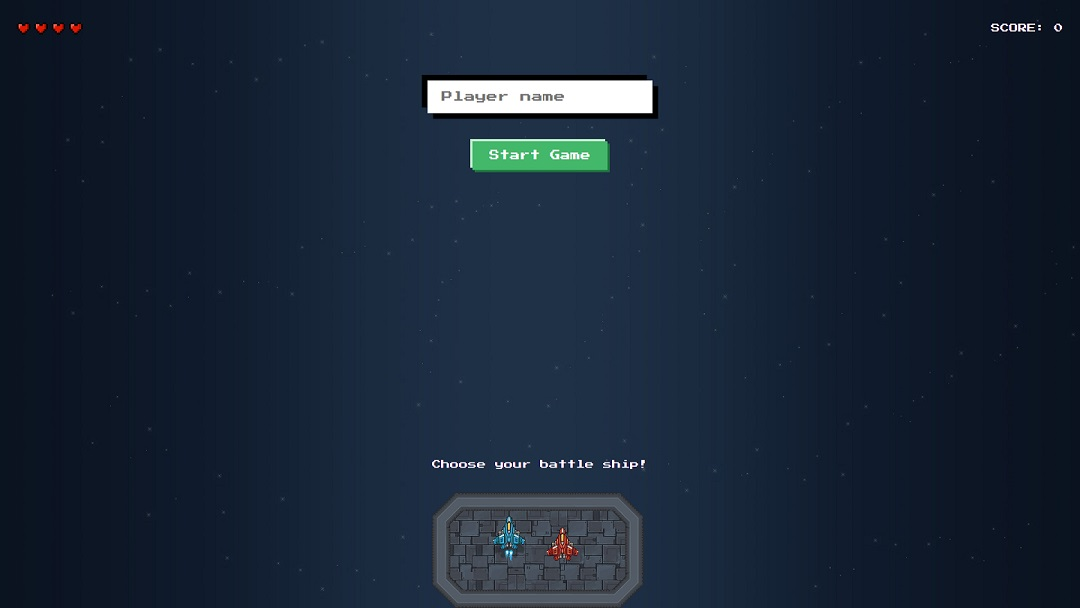
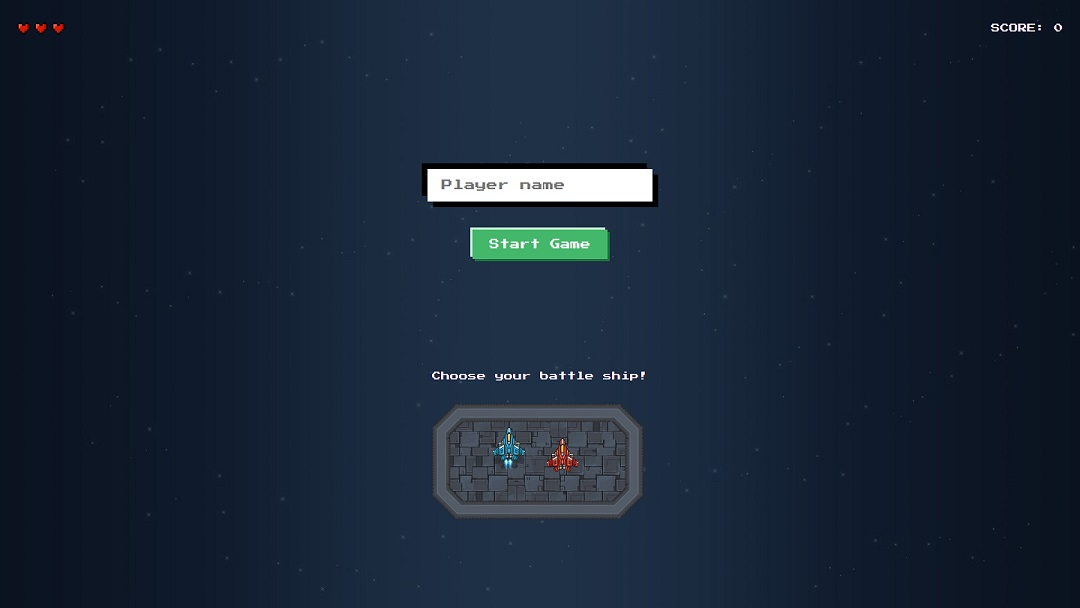
Improving Gameover component

diff --git a/src/views/Enemies/Enemies.jsx b/src/views/Enemies/Enemies.jsx
@@ -10,53 +10,55 @@ const Enemies = () => {
     const store = useContext(StateContext)
 
     useEffect(() => {
-        const interval = setInterval(() => {
-            const style = random(1, 4)
-            const x = random(100, store.state.game.arenaWidth - 70)
-            let elementHeight = 0
-            let elementWidth = 0
+        if (!store.state.game.gameOver) {
+            var interval = setInterval(() => {
+                const style = random(1, 4)
+                const x = random(100, store.state.game.arenaWidth - 70)
+                let elementHeight = 0
+                let elementWidth = 0
 
-            switch (style) {
-                case 1:
-                    elementHeight = 37
-                    elementWidth = 39
-                    break
-                case 2:
-                    elementHeight = 26
-                    elementWidth = 26
-                    break
-                case 3:
-                    elementHeight = 36
-                    elementWidth = 37
-                    break
-                case 4:
-                    elementHeight = 35
-                    elementWidth = 44
-                    break
-                default:
-                    elementHeight = 0
-                    elementWidth = 0
-            }
+                switch (style) {
+                    case 1:
+                        elementHeight = 37
+                        elementWidth = 39
+                        break
+                    case 2:
+                        elementHeight = 26
+                        elementWidth = 26
+                        break
+                    case 3:
+                        elementHeight = 36
+                        elementWidth = 37
+                        break
+                    case 4:
+                        elementHeight = 35
+                        elementWidth = 44
+                        break
+                    default:
+                        elementHeight = 0
+                        elementWidth = 0
+                }
 
-            const payload = {
-                id: generateID(),
-                hp: 1,
-                value: 1,
-                type: 'asteroid',
-                style: style,
-                x: x,
-                y: -elementHeight,
-                hited: false,
-                cords: null,
-                width: elementWidth,
-                height: elementHeight
-            }
+                const payload = {
+                    id: generateID(),
+                    hp: 1,
+                    value: 1,
+                    type: 'asteroid',
+                    style: style,
+                    x: x,
+                    y: -elementHeight,
+                    hited: false,
+                    cords: null,
+                    width: elementWidth,
+                    height: elementHeight
+                }
 
-            store.dispatch({ type: actionTypes.ENEMY_ADD, payload })
+                store.dispatch({ type: actionTypes.ENEMY_ADD, payload })
 
-        }, 1500)
+            }, 1500)
+        }
         return () => clearInterval(interval)
-    }, [store.state.game.arenaWidth])
+    }, [store.state.game.arenaWidth, store.state.game.gameOver])
 
 
 

diff --git a/src/store/store.js b/src/store/store.js
@@ -3,7 +3,7 @@ import * as actionTypes from './actionTypes'
 
 export const initialState = {
   player: {
-    lives: 4,
+    lives: 3,
     score: 0,
     gun: 'laser',
     userName: 'Player name',
@@ -48,6 +48,39 @@ export const reducer = (state, action) => {
         game: {
           ...state.game,
           gameOver: true
+        }
+      }
+    }
+    case actionTypes.RESET_GAME: {
+      return {
+        ...initialState,
+        player: {
+          ...initialState.player,
+          userName: state.player.userName
+        },
+        game: {
+          ...initialState.game,
+          isStarted: true,
+          arenaHeight: state.game.arenaHeight,
+          arenaWidth: state.game.arenaWidth,
+          playerPosition: {
+            ...initialState.game.playerPosition,
+            x: (state.game.arenaWidth / 2) - 32,
+            y: state.game.arenaHeight - 120
+          }
+        }
+      }
+    }
+    case actionTypes.MAIN_MENU: {
+      return {
+        ...state,
+        game: {
+          ...state.game,
+          isStarted: false,
+          gameOver: false,
+          playerPosition: {
+            ...initialState.game.playerPosition
+          }
         }
       }
     }

diff --git a/src/views/Game/Game.jsx b/src/views/Game/Game.jsx
@@ -33,7 +33,7 @@ const Game = (props) => {
             store.dispatch({ type: actionTypes.INIT_GAME, payload })
         }
         setTimeout(() => setStarting(false), 1200)
-    }, [])
+    }, [store.state.game.isStarted])
 
     useEffect(() => {
         const handleMove = (e) => {
@@ -81,6 +81,10 @@ const Game = (props) => {
             window.addEventListener('keyup', handleStop)
             window.addEventListener('click', handleShoot)
         }
+        if (store.state.game.gameOver) {
+            setFlyingRight(false)
+            setFlyingLeft(false)
+        }
         return () => {
             window.removeEventListener('keydown', handleMove)
             window.removeEventListener('keyup', handleStop)
@@ -91,7 +95,7 @@ const Game = (props) => {
     let gameOver = null
 
     if (store.state.game.gameOver) {
-        gameOver = <Gameover />
+        gameOver = <Gameover score={store.state.player.score} />
     }
 
     return (

diff --git a/src/components/Gameover/Gameover.jsx b/src/components/Gameover/Gameover.jsx
@@ -1,10 +1,25 @@
-import React from 'react'
+import React, { useContext } from 'react'
 import styles from './Gameover.module.css'
+import * as actionTypes from '../../store/actionTypes'
+import { StateContext } from '../../store/store'
 
-const Gameover = () => {
+const Gameover = (props) => {
+
+    const store = useContext(StateContext)
+
+    const mainMenu = () => {
+        store.dispatch({ type: actionTypes.RESET_GAME })
+        store.dispatch({ type: actionTypes.MAIN_MENU })
+    }
+
     return (
         <div className={styles.wrapper}>
             <h1>Game Over!</h1>
+            <p>You scored: {props.score} </p>
+            <div className={styles.menu}>
+                <button onClick={() => store.dispatch({ type: actionTypes.RESET_GAME })}>New Game</button>
+                <button className="red-btn" onClick={mainMenu}>Main Menu</button>
+            </div>
         </div>
     )
 }

diff --git a/src/index.css b/src/index.css
@@ -40,7 +40,7 @@ form {
   max-width: 100%;
   min-width: 0;
   display: flex;
-  flex: 1 0 auto;
+  flex: 0 0 auto;
   flex-direction: column;
   align-items: center;
 }
@@ -140,22 +140,37 @@ button:active::after {
   right: 0;
 }
 
+button,
 button[type="submit"] {
   border: 0;
   background-color: #44b86a;
 }
 
+button::after,
 button[type="submit"]::after {
   background-color: #c0eecf;
 }
 
+button::before,
 button[type="submit"]::before {
   background-color: #1e7440;
 }
 
+.red-btn {
+  border: 0;
+  background-color: #cc402e;
+}
+
+.red-btn::after {
+  background-color: #d58877;
+}
+
+.red-btn::before {
+  background-color: #80261a;
+}
+
 .container {
   height: 100%;
-  padding: 0 30px;
 }
 
 /* Animation For Bg */

diff --git a/src/components/Gameover/Gameover.module.css b/src/components/Gameover/Gameover.module.css
@@ -1,7 +1,25 @@
 .wrapper {
+    position: fixed;
+    z-index: 4;
+    top: 0;
+    left: 0;
+    background-color: rgba(0, 0, 0, .5);
     width: 100%;
     height: 100%;
     display: flex;
     justify-content: center;
     align-items: center;
+    flex-direction: column;
+}
+
+.wrapper p {
+    margin: 20px 0 40px 0;
+}
+
+.menu {
+    display: flex;
+}
+
+.menu button:first-of-type {
+    margin: 0 30px 0 0;
 }

diff --git a/src/store/actionTypes.js b/src/store/actionTypes.js
@@ -2,9 +2,11 @@ export const SET_USERNAME = 'SET_USERNAME'
 export const SET_BATTLESHIP = 'SET_BATTLESHIP'
 
 export const START_GAME = 'START_GAME'
+export const RESET_GAME = 'RESET_GAME'
 export const GAME_OVER = 'GAME_OVER'
 
 export const INIT_GAME = 'INIT_GAME'
+export const MAIN_MENU = 'MAIN_MENU'
 
 export const MOVE_LEFT = 'MOVE_LEFT'
 export const MOVE_RIGHT = 'MOVE_RIGHT'

diff --git a/src/components/Stats/Stats.module.css b/src/components/Stats/Stats.module.css
@@ -2,7 +2,7 @@
   width: 100%;
   display: flex;
   flex: 0 0 auto;
-  padding: 40px 0px 30px 0;
+  padding: 40px 30px 30px 30px;
   justify-content: space-between;
 }
 

diff --git a/README.md b/README.md
@@ -1,4 +1,6 @@
-# Portfolio
+# The Space Shooter
+
+### See [DEMO](https://tobiaszmaj.github.io/space-shooter/)
 
 ![Preview](preview.jpg)
 
@@ -6,3 +8,7 @@
 * [React](https://reactjs.org/)
 * [anime.js](https://animejs.com/)
 * CSS3
+
+## Controls
+* Left /Right arrow to move 
+* Left mouse button to shoot
